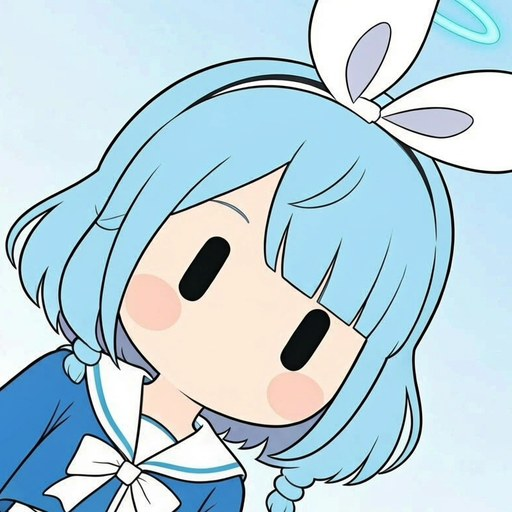
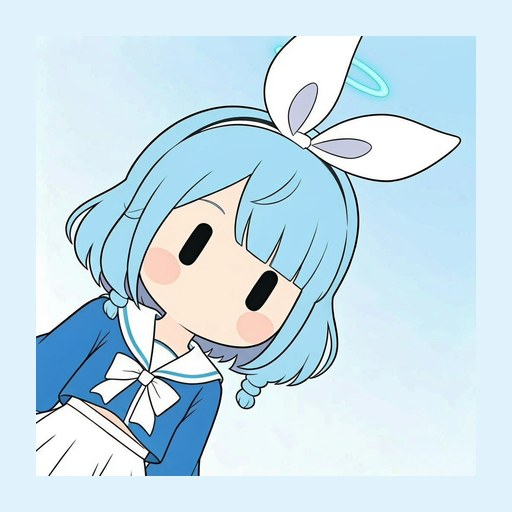
「我的」页：头像是能换的 + 默认头像整幅缩进不裁切
用户反馈两点：
1. 「用户不能改图片」—— 编辑资料里只有昵称 + 个性签名，头像压根没有入口，
   左上角那张 <image> 点了也什么都不发生。
   现在：两个入口（头像本身可点、编辑资料里多一行「头像 · 相册 / 拍照 ›」整行可点）。
   链路 uni.chooseImage（album+camera）→ uni.saveFile 落到本机持久目录
   （tempFilePaths 重启后可能被清）→ settings.set({profile:{avatar}}) → refresh()。
   选图立即生效，不跟昵称一起走 draft：它是立刻可见的图，选完还要再点「保存」反而奇怪。
   另给「恢复默认头像」（只在换过之后出现）—— ⚠ settings.set 是深合并，
   恢复默认必须显式写 avatar:''（项目约定 14），删 key 是删不掉的。

2. 「默认图片显示偏大」—— 上一版默认图是把 1024 原画**裁**成 780 方形再压到 512，
   裁切=放大，画面被顶到圆边，头上蝴蝶结的尖/右上光环/左下围裙都落在圆外。
   现在 _tools/gen-avatar.py 改成 FIT 模式：整幅等比缩到 86%，居中贴到 512 方布，
   四周补一圈取自原画四角的浅蓝底色（JPEG 没透明通道，补画面自己的颜色不突兀）。
   同时 profile.vue 的大头像 mode 从 aspectFill 改成 aspectFit ——
   默认图与用户自选的图，圆框里都是「完整的一幅」。

校验：check-profile.js 新增第 6 组（能改头像 + aspectFit + 生成脚本不是裁切），
README 补「我的」页小节。全量 70 个脚本全绿。

diff --git a/uniapp/pages/profile/profile.vue b/uniapp/pages/profile/profile.vue
@@ -14,7 +14,11 @@
     <view class="page-slide" :class="slideCls" :style="slideStyle">
     <!-- 个人信息卡 -->
     <view class="card profile-card">
-      <image class="avatar" :src="avatarSrc" mode="aspectFill" />
+      <!-- 头像可点：直接换（用户反馈「不能改图片」。
+           本来只有昵称/签名能编辑，头像压根没有入口） -->
+      <view class="avatar-hit" @tap="chooseAvatar">
+        <image class="avatar" :src="avatarSrc" mode="aspectFit" />
+      </view>
       <view class="p-info">
         <view class="p-name">{{ profile.nickname }}</view>
         <view class="p-account">账号：{{ profile.account }}</view>
@@ -43,6 +47,15 @@
 
     <!-- 编辑资料（内联展开） -->
     <view v-if="editing" class="card edit-card">
+      <!-- 头像：这里是"能改头像"的正经入口 —— 光把左上角那张图做成可点，
+           新用户不会想到去点它（用户反馈「用户不能改图片」就是这么来的） -->
+      <view class="field field-tap" @tap="chooseAvatar">
+        <text class="field-label">{{ $t('头像') }}</text>
+        <view class="field-avatar-box">
+          <image class="field-avatar" :src="avatarSrc" mode="aspectFit" />
+        </view>
+        <text class="field-pick">{{ $t('相册 / 拍照 ›') }}</text>
+      </view>
       <view class="field">
         <text class="field-label">{{ $t('昵称') }}</text>
         <input class="field-input" :value="draft.nickname" maxlength="20" @input="e => draft.nickname = e.detail.value" />
@@ -55,6 +68,8 @@
         <button class="btn-ghost cancel-btn" @tap="cancelEdit">{{ $t('取消') }}</button>
         <button class="btn-primary save-btn" @tap="saveEdit">{{ $t('保存') }}</button>
       </view>
+      <!-- 换过才给"恢复默认"：否则那一栏永远是死的，反而让人以为默认图被换了 -->
+      <text v-if="profile.avatar" class="avatar-reset" @tap="resetAvatar">{{ $t('恢复默认头像') }}</text>
     </view>
 
     <!-- 学习数据条 -->
@@ -136,9 +151,16 @@ export default {
   },
   computed: {
     avatarSrc() {
-      // 没设过头像就用本地默认图：512x512 正方形、脸摆在圆心的看板娘。
-      // 别换回 static/mascot.jpg —— 800x480 横图，aspectFill 取中间方形后人物又小又偏
-      // （光环和蝴蝶结还被切掉），在 110rpx 的小圆头像里看不清脸。
+      // 没设过头像就用本地默认图：**整幅**看板娘缩进方框（1024 原画等比缩到 86%），
+      // 配合上面的 mode="aspectFit" —— 圆框里呈现的是完整的一幅，不裁不放大。
+      //
+      // 历史（别走回头路）：
+      //   · 最早直接用 static/mascot.jpg（800x480 横图）→ aspectFill 裁中间方块，
+      //     人物又小又偏，光环和蝴蝶结都被切掉；
+      //   · 然后改成专门裁一张方形头像（把脸摆圆心）→ 用户反馈「默认图片显示偏大」，
+      //     裁切=放大，画面顶到圆的边缘，头上的蝴蝶结尖 / 右上光环 / 左下围裙都在圆外；
+      //   · 现在是"整幅缩进去不裁切"（_tools/gen-avatar.py 的 FIT 模式）。
+      // 所以：既别换回 mascot.jpg，也别把 gen-avatar.py 改回裁切。
       return this.profile.avatar || '/static/avatar-default.jpg'
     }
   },
@@ -205,6 +227,58 @@ export default {
       this.refresh()
       uni.showToast({ title: t('已保存'), icon: 'success' })
     },
+    /**
+     * 换头像：相册或拍照 → 落到本机 → 写进 profile.avatar。
+     *
+     * 为什么不写成"进 draft、跟昵称一起保存"：
+     * 头像是个有副作用的重动作（拉起相册），用户选完图却还要再点一次「保存」才生效，
+     * 会觉得"选了没用"；而它是**立刻可见**的图，取消反而更奇怪。
+     * 所以它走自己的立即生效路径，昵称/签名仍走 draft。
+     *
+     * chooseImage 给的是临时路径，App 重启后可能被清掉，所以先 saveFile 落到
+     * 本机的持久目录（与 services/image-gen.js 落图同一套路）；存不下就先用临时路径，
+     * 本次会话可见 —— 总比什么都不显示强。
+     */
+    chooseAvatar() {
+      uni.chooseImage({
+        count: 1,
+        sizeType: ['compressed'],
+        sourceType: ['album', 'camera'],
+        success: (r) => {
+          const tmp = (r && r.tempFilePaths && r.tempFilePaths[0]) || ''
+          if (!tmp) return
+          try {
+            uni.saveFile({
+              tempFilePath: tmp,
+              success: (s) => this.setAvatar((s && s.savedFilePath) || tmp),
+              fail: () => this.setAvatar(tmp)
+            })
+          } catch (e) {
+            this.setAvatar(tmp)
+          }
+        },
+        fail: () => { /* 用户取消选图，静默 */ }
+      })
+    },
+    /** 落盘 + 立刻刷新（profile.avatar 是 computed avatarSrc 的源） */
+    setAvatar(path) {
+      const p = String(path || '').trim()
+      if (!p) return
+      settings.set({ profile: { avatar: p } })
+      this.refresh()
+      uni.showToast({ title: t('已更新头像'), icon: 'success' })
+    },
+    /**
+     * 恢复默认头像。
+     * 注意 settings.set() 是**深合并**（项目约定 14）：想恢复默认必须显式写回目标值
+     * （空串 = 没设过头像 → avatarSrc 回落 static/avatar-default.jpg），
+     * 靠"删掉这个 key"是删不掉的。
+     */
+    resetAvatar() {
+      settings.set({ profile: { avatar: '' } })
+      this.refresh()
+      uni.showToast({ title: t('已恢复默认头像'), icon: 'none' })
+    },
     goStats() {
       uni.navigateTo({ url: '/pkgStudy/pages/stats/stats' })
     },
@@ -242,8 +316,18 @@ export default {
   box-shadow: 0 4rpx 14rpx rgba(23, 32, 26, 0.06);
   box-shadow: 0 4rpx 14rpx rgba(var(--shadow-rgb, 23, 32, 26), 0.06);
   flex-shrink: 0;
-  background: #e4e9e4;
+  /* aspectFit 会留边，底色要和卡片同一族（默认图自带一圈同色留白，看不出接缝） */
+  background: rgba(255, 255, 255, 0.7);
+  background: rgba(var(--surface-rgb, 255, 255, 255), 0.7);
 }
+
+/* 头像可点：给个按压缩放，别让人以为那是张纯展示的图 */
+.avatar-hit {
+  flex-shrink: 0;
+  transition: transform 140ms ease;
+}
+
+.avatar-hit:active { transform: scale(0.94); }
 
 .p-info { flex: 1; margin-left: 26rpx; min-width: 0; }
 
@@ -341,6 +425,42 @@ export default {
 .cancel-btn { width: 30%; margin-right: 20rpx; height: 80rpx; font-size: 28rpx; }
 
 .save-btn { flex: 1; height: 80rpx; font-size: 28rpx; }
+
+/* 头像那一行：点整行都能换（不只是那个小圆图），比抠 68rpx 的小目标好点得多 */
+.field-tap {
+  padding: 8rpx 0;
+  border-radius: 16rpx;
+}
+
+.field-tap:active { background: rgba(var(--neutral-rgb, 23, 32, 26), 0.05); }
+
+.field-avatar-box {
+  width: 68rpx;
+  height: 68rpx;
+  border-radius: 50%;
+  overflow: hidden;
+  flex-shrink: 0;
+  background: rgba(var(--surface-rgb, 255, 255, 255), 0.7);
+  border: 2rpx solid var(--hairline, rgba(var(--surface-rgb, 255, 255, 255), 0.8));
+}
+
+.field-avatar { width: 100%; height: 100%; border-radius: 50%; }
+
+.field-pick {
+  margin-left: 20rpx;
+  font-size: 24rpx;
+  color: #1d4fd8;
+  color: var(--brand-strong, #1d4fd8);
+}
+
+.avatar-reset {
+  display: block;
+  margin-top: 18rpx;
+  text-align: center;
+  font-size: 24rpx;
+  color: #98a19b;
+  color: var(--ink-3, #98a19b);
+}
 
 .stat-strip { display: flex; padding: 30rpx 0; margin-bottom: 20rpx; }
 

diff --git a/_tools/check-profile.js b/_tools/check-profile.js
@@ -6,9 +6,13 @@
 //  2) settings.js 与 profile.vue 两处默认值一致（两者各存一份，容易改漏一边）
 //  3) 老存档迁移：昵称仍为「学习者」或为空 → 自动改成 arona
 //  4) 用户自定义过的昵称不被迁移覆盖
-//  5) 默认头像必须指向 static/avatar-default.jpg（正方形、体积可控），
-//     不能再指回 800x480 的静态横图 mascot.jpg —— 头像框是 110rpx 正圆 + aspectFill，
+//  5) 默认头像必须指向 static/avatar-default.jpg（正方形、体积可控、整幅缩进不裁切），
+//     不能再指回 800x480 的静态横图 mascot.jpg —— 头像框是 110rpx 正圆，
 //     横图取中间方形后人物又小又偏、在圆里看不清脸，这种问题肉眼不看真机根本发现不了
+//  6) 头像是能换的（用户反馈「用户不能改图片」）：
+//     入口在编辑资料里 + 头像本身可点；走 chooseImage → saveFile 落本机 → profile.avatar；
+//     并且给了「恢复默认头像」（settings.set 是深合并，恢复默认必须显式写空串）
+//  7) 显示模式必须是 aspectFit（原框尽可能显示图片的全部），不能是 aspectFill
 
 const fs = require('fs');
 const path = require('path');
@@ -103,13 +107,64 @@ if (fs.existsSync(avPath)) {
   const sz = jpegSize(buf);
   assert(!!sz, '是合法 JPEG（FFD8 + SOF 段可解析）');
   if (sz) {
-    eq(sz.w, sz.h, '宽高相等（圆形头像用正方形，方形图不会被 aspectFill 裁）');
+    eq(sz.w, sz.h, '宽高相等（圆形头像用正方形）');
     assert(sz.w >= 256, '边长 ' + sz.w + 'px ≥ 256（110rpx 在 3x 屏约 158 物理像素）');
+    // 「整幅缩进不裁切」得能验：画面四周必须有一圈同色留白。
+    // 直接解 JPEG 像素太重，这里退一步查生成脚本的契约 ——
+    // 脚本一旦被改回 crop（旧写法），这几条就会红。
+    const gen = fs.readFileSync(path.join(__dirname, 'gen-avatar.py'), 'utf8');
+    assert(/FIT\s*=/.test(gen) && /canvas\.paste/.test(gen),
+      'gen-avatar.py 是「等比缩进 + 居中贴到方形画布」（不是裁切）');
+    assert(!/\.crop\(\s*box\s*\)/.test(gen) && !/CROP_SIDE/.test(gen),
+      'gen-avatar.py 里没有残留的裁切逻辑（CROP_SIDE / crop(box)）');
+    const fit = Number((/FIT\s*=\s*([\d.]+)/.exec(gen) || [])[1]);
+    assert(fit > 0.7 && fit < 0.98, 'FIT=' + fit + ' 在 0.7~0.98 之间（太小看不见人、太大又顶到圆边）');
   }
   const kb = Math.round(buf.length / 1024);
   if (kb > 0 && kb < 120) ok('体积 ' + kb + 'KB（应在 1-120KB，随包进 APK）');
   else bad('体积异常 ' + kb + 'KB（应在 1-120KB）');
 }
+
+console.log('== 6. 头像是能换的 ==');
+// 用户反馈：「用户不能改图片」。以前编辑资料里只有昵称 + 签名，头像压根没有入口，
+// 而左上角那张图也只是个 <image>，点了什么都不会发生。
+assert(/@tap="chooseAvatar"/.test(vueClean), '头像本身可点（@tap="chooseAvatar"）');
+assert(/class="field field-tap"[\s\S]{0,200}@tap="chooseAvatar"/.test(vueClean),
+  '编辑资料里有「头像」那一行，点整行也能换（光靠小圆图，新用户想不到去点）');
+assert(/\$t\('头像'\)/.test(vueClean), '那一行有「头像」标签');
+// 显示模式：原框尽可能显示图片的全部
+assert(/<image class="avatar" :src="avatarSrc" mode="aspectFit" \/>/.test(vueClean),
+  '大头像用 mode="aspectFit"（完整显示，不裁切）');
+assert(!/class="avatar"[^>]*aspectFill/.test(vueClean),
+  '大头像不再用 aspectFill（那是"偏大/被裁"的直接原因）');
+// 选图链路
+const chooseBody = vueClean.match(/chooseAvatar\(\) \{([\s\S]*?)\n    \},/);
+assert(!!chooseBody, '能抠出 chooseAvatar 方法体');
+if (chooseBody) {
+  const b = chooseBody[1];
+  assert(/uni\.chooseImage\(/.test(b), '走系统选图 chooseImage（不自己造相册）');
+  assert(/sourceType:\s*\[[^\]]*'album'/.test(b) && /'camera'/.test(b), '相册与拍照都给（端上二选一）');
+  assert(/uni\.saveFile\(/.test(b), '选完 saveFile 落到本机（临时路径重启后会没）');
+  assert(/fail:\s*\(\)\s*=>\s*\{[^}]*\}/.test(b), '用户取消选图要静默，不能弹错');
+  assert(/setAvatar\(/.test(b), '存好之后交给 setAvatar 落盘');
+}
+const setBody = vueClean.match(/\n    setAvatar\(path\) \{([\s\S]*?)\n    \},/);
+assert(!!setBody, '能抠出 setAvatar 方法体');
+if (setBody) {
+  assert(/settings\.set\(\{ profile: \{ avatar: p \} \}\)/.test(setBody[1]), 'setAvatar 写 profile.avatar');
+  assert(/this\.refresh\(\)/.test(setBody[1]), '写完立刻 refresh（avatarSrc 是 computed，靠它跟着变）');
+}
+assert(/\bt\('已更新头像'\)/.test(vueClean), '换完给一句反馈（不然用户不知道成没成）');
+// 恢复默认：settings.set 是深合并，必须显式写空串
+const resetBody = vueClean.match(/resetAvatar\(\) \{([\s\S]*?)\n    \},/);
+assert(!!resetBody, '能抠出 resetAvatar 方法体');
+if (resetBody) {
+  assert(/avatar: ''/.test(resetBody[1]),
+    '恢复默认显式写 avatar: \'\'（深合并下"删 key"删不掉 —— 项目约定 14）');
+  assert(!/delete\s/.test(resetBody[1]), '不是靠 delete 删字段');
+}
+assert(/v-if="profile\.avatar"[\s\S]{0,120}@tap="resetAvatar"/.test(vueClean),
+  '换过才显示「恢复默认头像」（没换过时那一行是死的，反而让人以为默认图被改了）');
 
 console.log('');
 console.log(fail === 0 ? '全部通过 ✓' : ('失败 ' + fail + ' 项 ✗'));

diff --git a/uniapp/utils/i18n-en.js b/uniapp/utils/i18n-en.js
@@ -579,6 +579,11 @@ export default {
   '注册': 'Sign up',
   '昵称': 'Nickname',
   '个性签名': 'Bio',
+  '头像': 'Avatar',
+  '相册 / 拍照 ›': 'Album / Camera ›',
+  '已更新头像': 'Avatar updated',
+  '恢复默认头像': 'Reset to default avatar',
+  '已恢复默认头像': 'Default avatar restored',
   '用户名': 'Username',
   '密码': 'Password',
   '确认密码': 'Confirm password',

diff --git a/_tools/gen-avatar.py b/_tools/gen-avatar.py
@@ -1,22 +1,20 @@
 # _tools/gen-avatar.py - 生成「我的」页默认头像（uniapp/static/avatar-default.jpg）
 #
-# 为什么要有这个脚本：
-#   默认头像原来复用的是 static/mascot.jpg —— 那是张 800x480 的横版看板娘线稿。
-#   头像在 profile.vue 里是 110rpx 的正圆（mode="aspectFill"）：横图会被按短边放大、
-#   再取中间一块正方形，结果是人物在圆里又小又偏，光环和蝴蝶结还被切掉
-#   （对照图见 _tools/_scratch/avatar-before-after.py）。这种"能看见、但不像头像"的问题
-#   不看真机根本发现不了，所以这里干脆做一张专门的方形头像图。
-#   原画用 static/icons/icon-1024.png（与应用图标同源的正方形构图），裁成正方形、
-#   让「脸」落在正圆中心，再压成 512x512 的 jpg。
+# 为什么要有这个脚本（两代原因的叠加）：
+#   ① 最早默认头像复用的是 static/mascot.jpg —— 800x480 横图，塞进 110rpx 正圆后
+#      人物又小又偏（光环、蝴蝶结都被切掉），于是改成专门裁一张方形头像，把脸摆在圆心。
+#   ② 2026-10-11 用户反馈：那张裁切版「显示偏大」—— 裁切本身就是放大，画面被顶到圆的
+#      边缘，头顶蝴蝶结的尖、右上光环、左下围裙全落在圆外。要求「原框尽可能显示图片的全部」。
+#      所以现在改成 **整幅等比缩进去、一刀不裁**：把原画缩到外框的 FIT 比例，
+#      居中贴在方形画布上，四周补一圈取自原画四角的底色（JPEG 没有透明通道，
+#      补画面自己的浅蓝比补白更不突兀）。
+#   配合 profile.vue 的 mode="aspectFit"：默认图与用户自选的图，圆框里呈现的都是
+#   「完整的一幅」，而不是「被裁过的一块」。
+#
+#   注意：改这里只影响默认头像。用户自己选的头像走的是 utils/... 的本地文件，
+#   那个由 profile.vue 的 chooseAvatar() 负责，跟本脚本无关。
 #
 # 用法：python gen-avatar.py      （输出 ../../uniapp/static/avatar-default.jpg）
-#
-# 尺寸怎么来的（对着原画量的）：
-#   1024x1024 原画里，人物笔画范围约 x 0..986 / y 109..1023（左下角身体被画布裁掉）；
-#   脸（含腮红）大致在 x 300..620 / y 380..650，脸心约 (430, 500)。
-#   取 780x780 的方框、圆心 (450, 465)，即方框里那个内切圆（= 圆形头像实际可见范围）
-#   刚好把脸摆在圆心、头发和领结都留住，只切掉右上蝴蝶结的尖儿和左下角身体。
-#   换原画/换构图就调下面三个常量，然后看一眼 _tools/_scratch/preview-avatar.py 的预览图。
 from PIL import Image
 import os
 
@@ -24,26 +22,46 @@ HERE = os.path.dirname(os.path.abspath(__file__))
 SRC = os.path.join(HERE, '..', 'uniapp', 'static', 'icons', 'icon-1024.png')
 OUT = os.path.join(HERE, '..', 'uniapp', 'static', 'avatar-default.jpg')
 
-CROP_SIDE = 780           # 裁切方框边长（原画像素）
-CROP_CX = 450             # 方框中心 x（对齐"脸心偏右一点点"，把蝴蝶结多留一点）
-CROP_CY = 465             # 方框中心 y
-OUT_SIZE = 512            # 输出边长（头像最大就显示 158px 物理像素，512 足够 3x 屏）
+FIT = 0.86          # 画面占外框的比例；剩下的当留白（太满就又是"偏大"）
+OUT_SIZE = 512      # 头像最大只显示 158px 物理像素，512 足够 3x 屏
 QUALITY = 88
+
+
+def bg_color(im):
+    """取原画四角 8x8 的平均色当留白底色 —— 原画背景是浅蓝渐变，
+    补它自己的颜色，接缝几乎看不出来（补白会有一圈白边）。"""
+    w, h = im.size
+    k = 8
+    pts = [(0, 0), (w - k, 0), (0, h - k), (w - k, h - k)]
+    rs = gs = bs = 0
+    for x, y in pts:
+        patch = im.crop((x, y, x + k, y + k))
+        r, g, b = patch.resize((1, 1), Image.BOX).getpixel((0, 0))
+        rs += r
+        gs += g
+        bs += b
+    n = len(pts)
+    return (rs // n, gs // n, bs // n)
 
 
 def main():
     if not os.path.exists(SRC):
         raise SystemExit('找不到原画：' + SRC)
     im = Image.open(SRC).convert('RGB')
-    side = min(CROP_SIDE, im.width, im.height)
-    l = max(0, min(im.width - side, CROP_CX - side // 2))
-    t = max(0, min(im.height - side, CROP_CY - side // 2))
-    box = (l, t, l + side, t + side)
-    out = im.crop(box).resize((OUT_SIZE, OUT_SIZE), Image.LANCZOS)
-    out.save(OUT, quality=QUALITY, optimize=True, progressive=True)
-    print('crop %s -> %s  %dx%d  %.1fKB'
-          % (box, os.path.relpath(OUT, os.path.join(HERE, '..')),
-             OUT_SIZE, OUT_SIZE, os.path.getsize(OUT) / 1024))
+    # 原画是非正方时取中间的正方（现在是 1024x1024，这一步是防呆）
+    side = min(im.width, im.height)
+    l = (im.width - side) // 2
+    t = (im.height - side) // 2
+    square = im.crop((l, t, l + side, t + side))
+
+    inner = int(round(OUT_SIZE * FIT))
+    canvas = Image.new('RGB', (OUT_SIZE, OUT_SIZE), bg_color(square))
+    off = (OUT_SIZE - inner) // 2
+    canvas.paste(square.resize((inner, inner), Image.LANCZOS), (off, off))
+    canvas.save(OUT, quality=QUALITY, optimize=True, progressive=True)
+    print('fit %dx%d -> %d/%d  原画 %dx%d  底色 %s  %dx%d  %.1fKB'
+          % (side, side, inner, OUT_SIZE, im.width, im.height,
+             bg_color(square), OUT_SIZE, OUT_SIZE, os.path.getsize(OUT) / 1024))
 
 
 if __name__ == '__main__':
